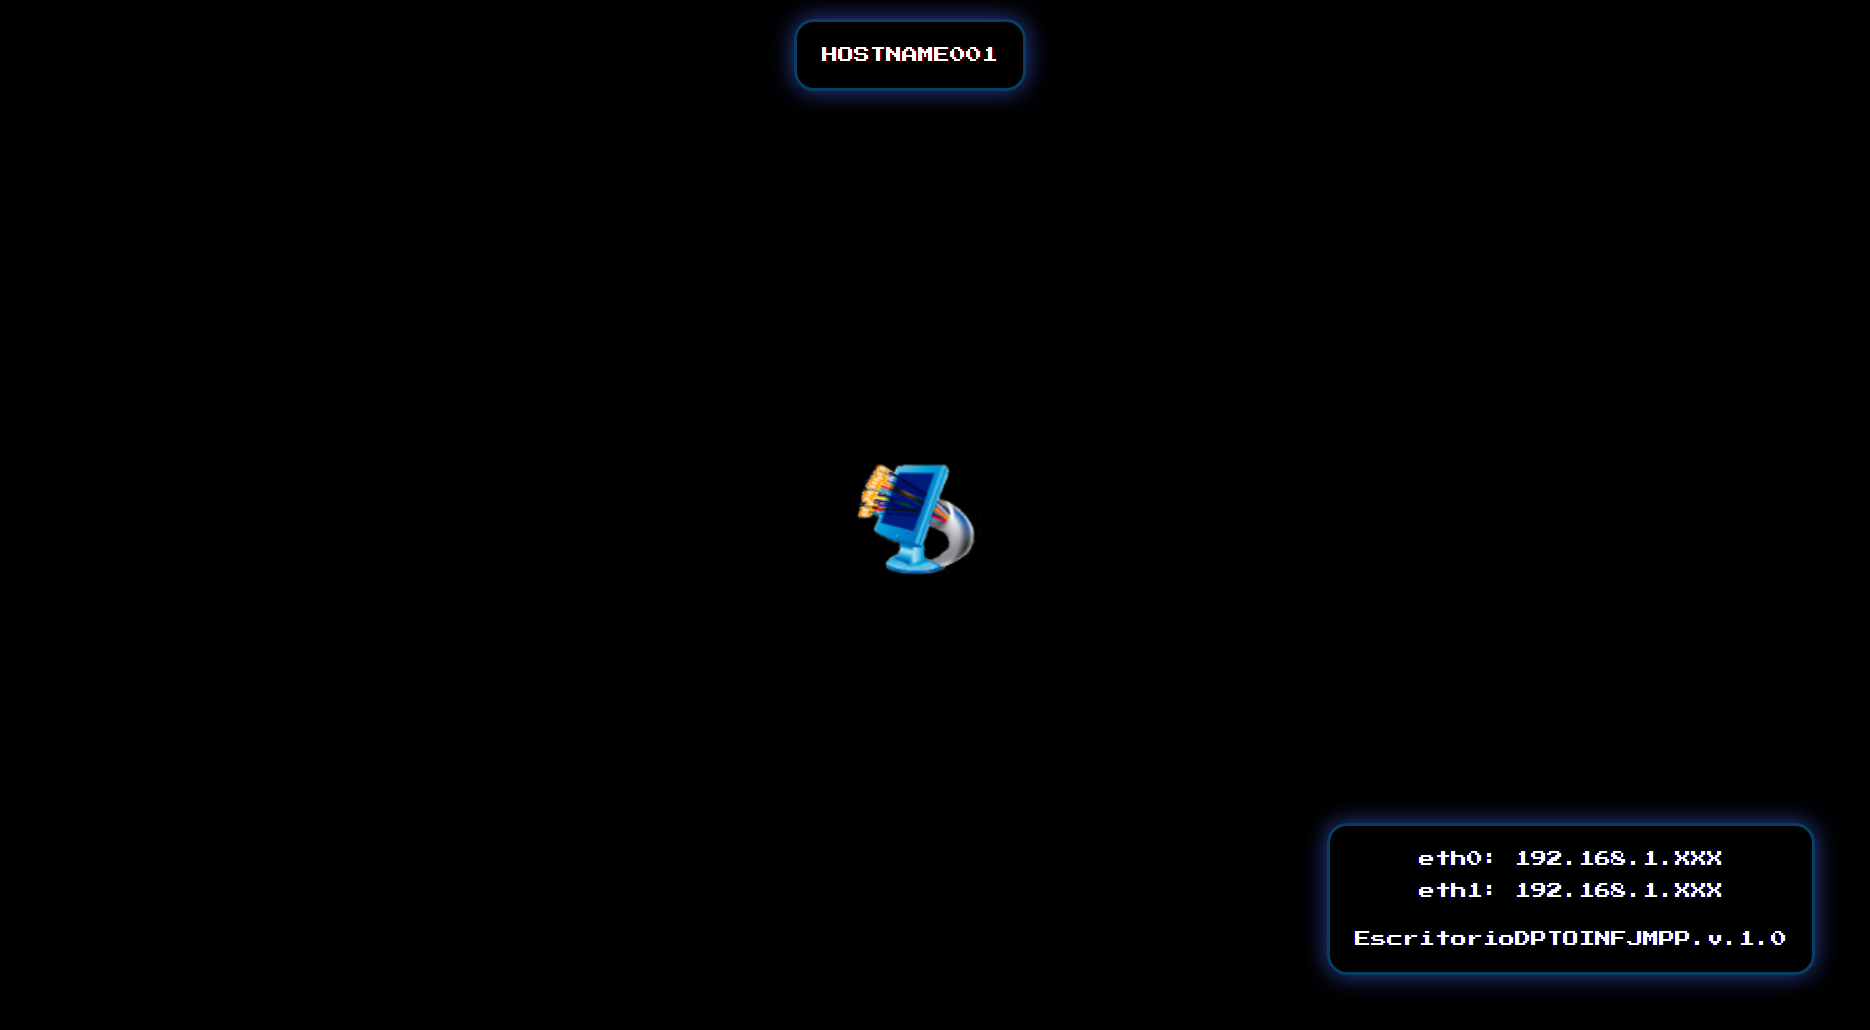
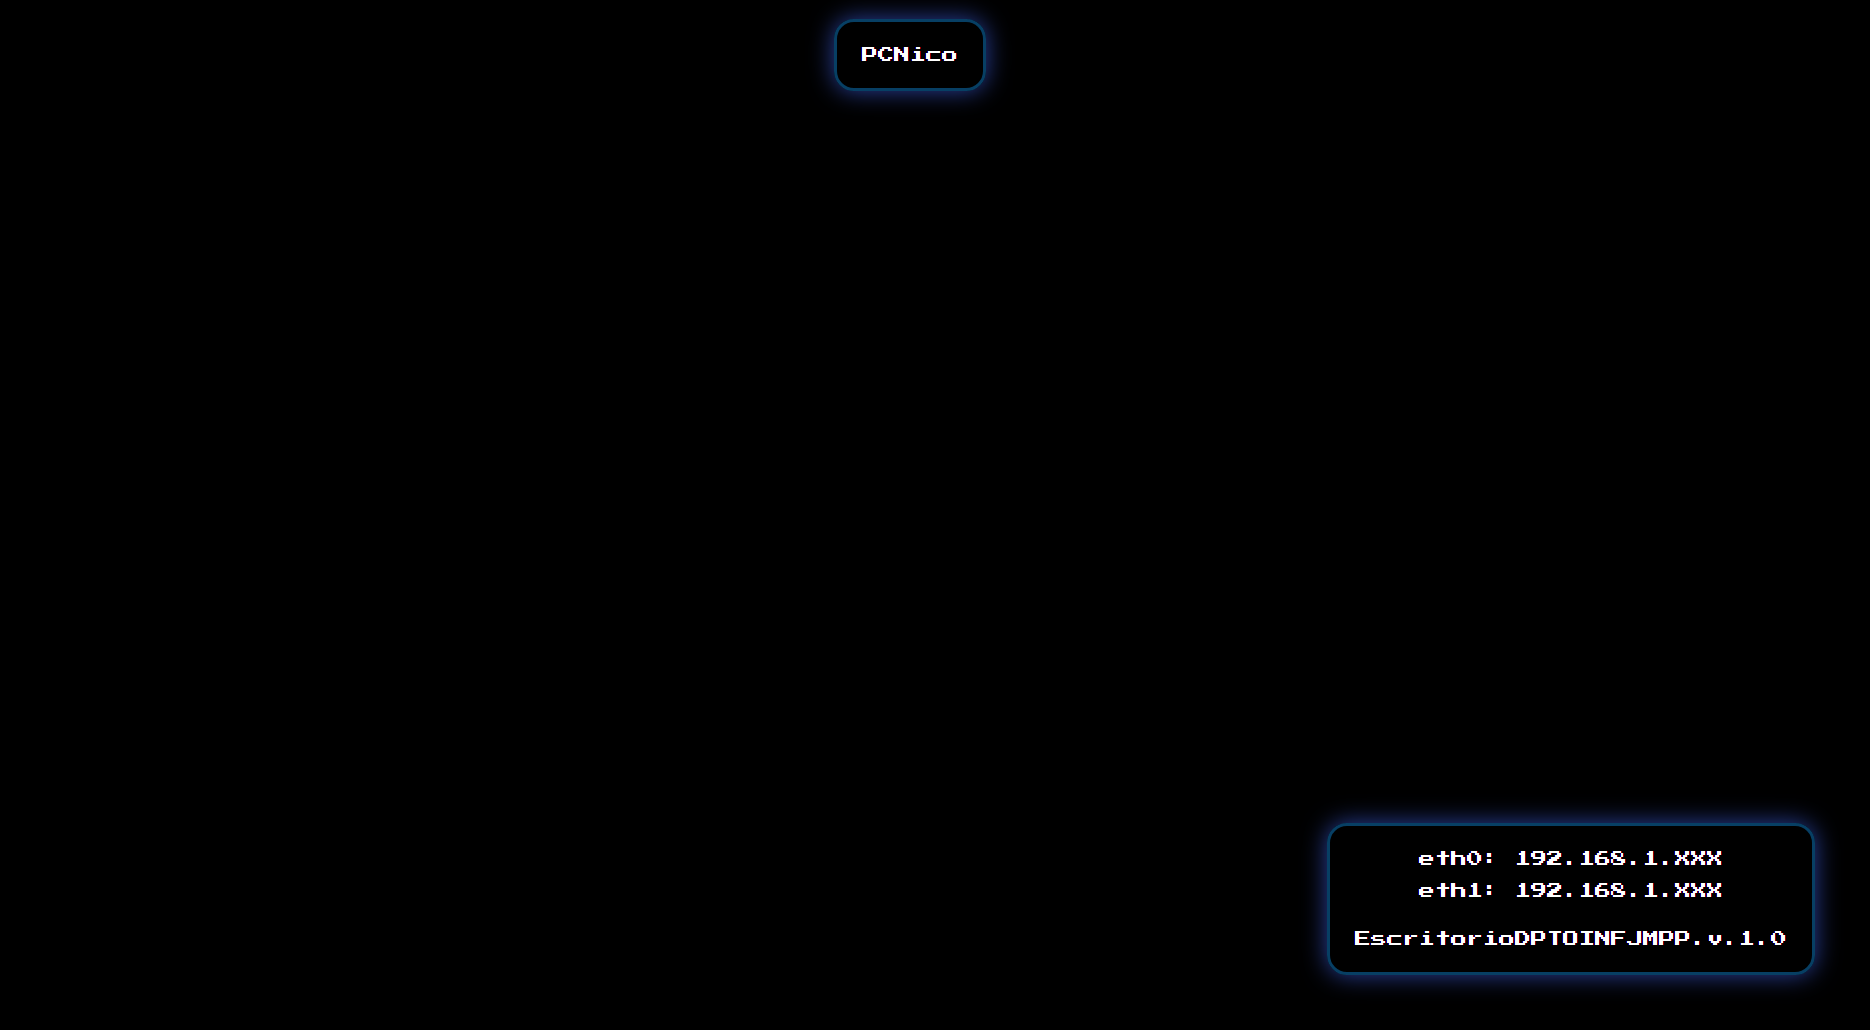
15/03

Changed region(s): [[0.4032, 0.0, 0.5583, 0.0932], [0.4342, 0.435, 0.5273, 0.5592]]

diff --git a/CreaFondo.js b/CreaFondo.js
@@ -1,4 +1,5 @@
 const fs = require("fs");
+const os =require("os");
 const path = require("path");
 const nodeHtmlToImage = require("node-html-to-image");
 //const wallpaper = require("wallpaper");
@@ -12,14 +13,18 @@ const html = fs.readFileSync("./index.html", function (err, html) {
   }
   return html;
 });
-
+prueba=html.toString();
+console.log(os.hostname());
+prueba= prueba.replace("HOSTNAME001", os.hostname());
+console.log(prueba);
 
   const imgPath = `./wallpaperDPTO.png`;
 
   // Create image from html file
   nodeHtmlToImage({
     output: imgPath,
-    html: html.toString("utf-8"),
+    html: prueba,
+    //html: html.toString("utf-8"),
   }).then(() => {
     console.log("The image was created successfully!");
 

diff --git a/index.html b/index.html
@@ -23,8 +23,8 @@ body {
     padding: 55px;
     display: flex;
     background: black;
-    background-size: 7.5%;
-    background-image: url(https://departamentoinformaticajmpp.com/web/img/Departamento/departa.png); 
+    
+    background-image: url("./LOGOS/LOGOS/F\ y\ L/Fondo informática.jpg"); 
     background-repeat: no-repeat;
     background-position: center;
     width: 1760px;
@@ -57,7 +57,7 @@ body {
 }
 
     </style>
-        <p id="hostname">HOSTNAME001</p>
+        <p id="hostname"> HOSTNAME001 </p>
         <p id="ip1">eth0: 192.168.1.XXX <br><br>
             eth1: 192.168.1.XXX <br><br>
             <br>
